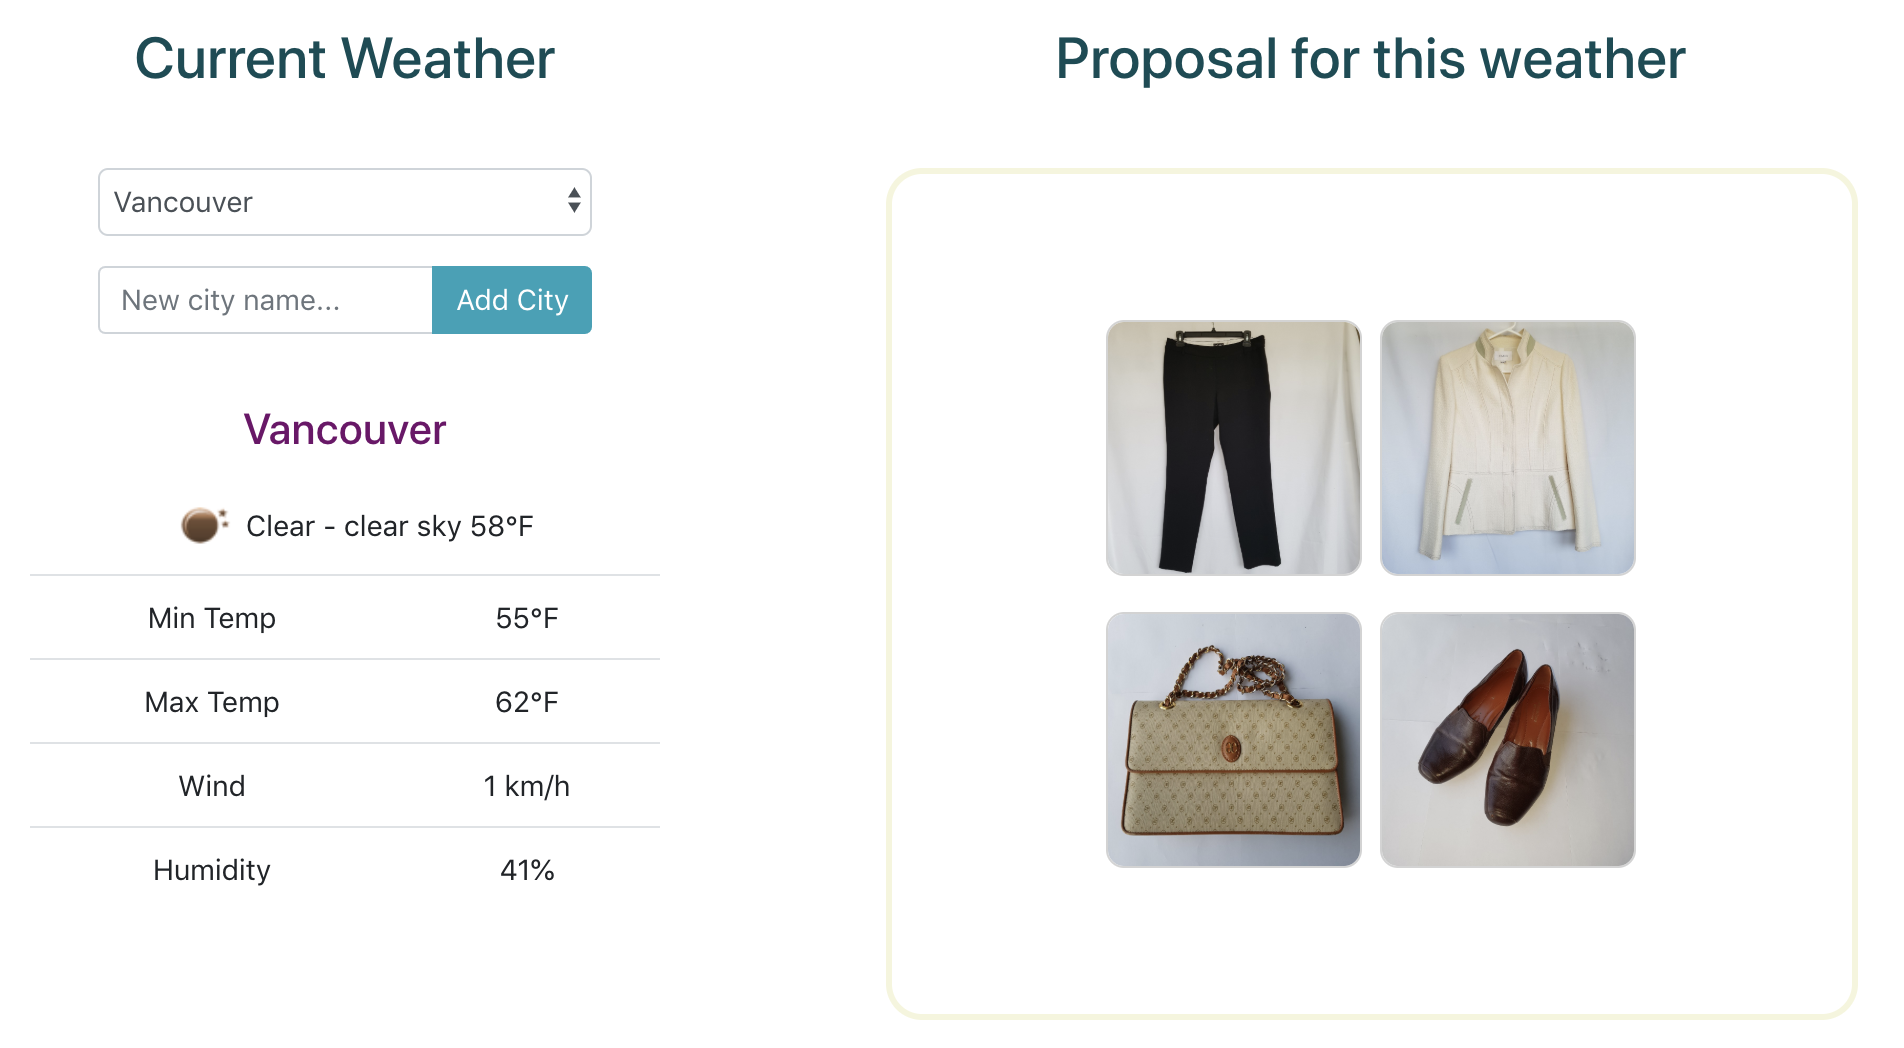
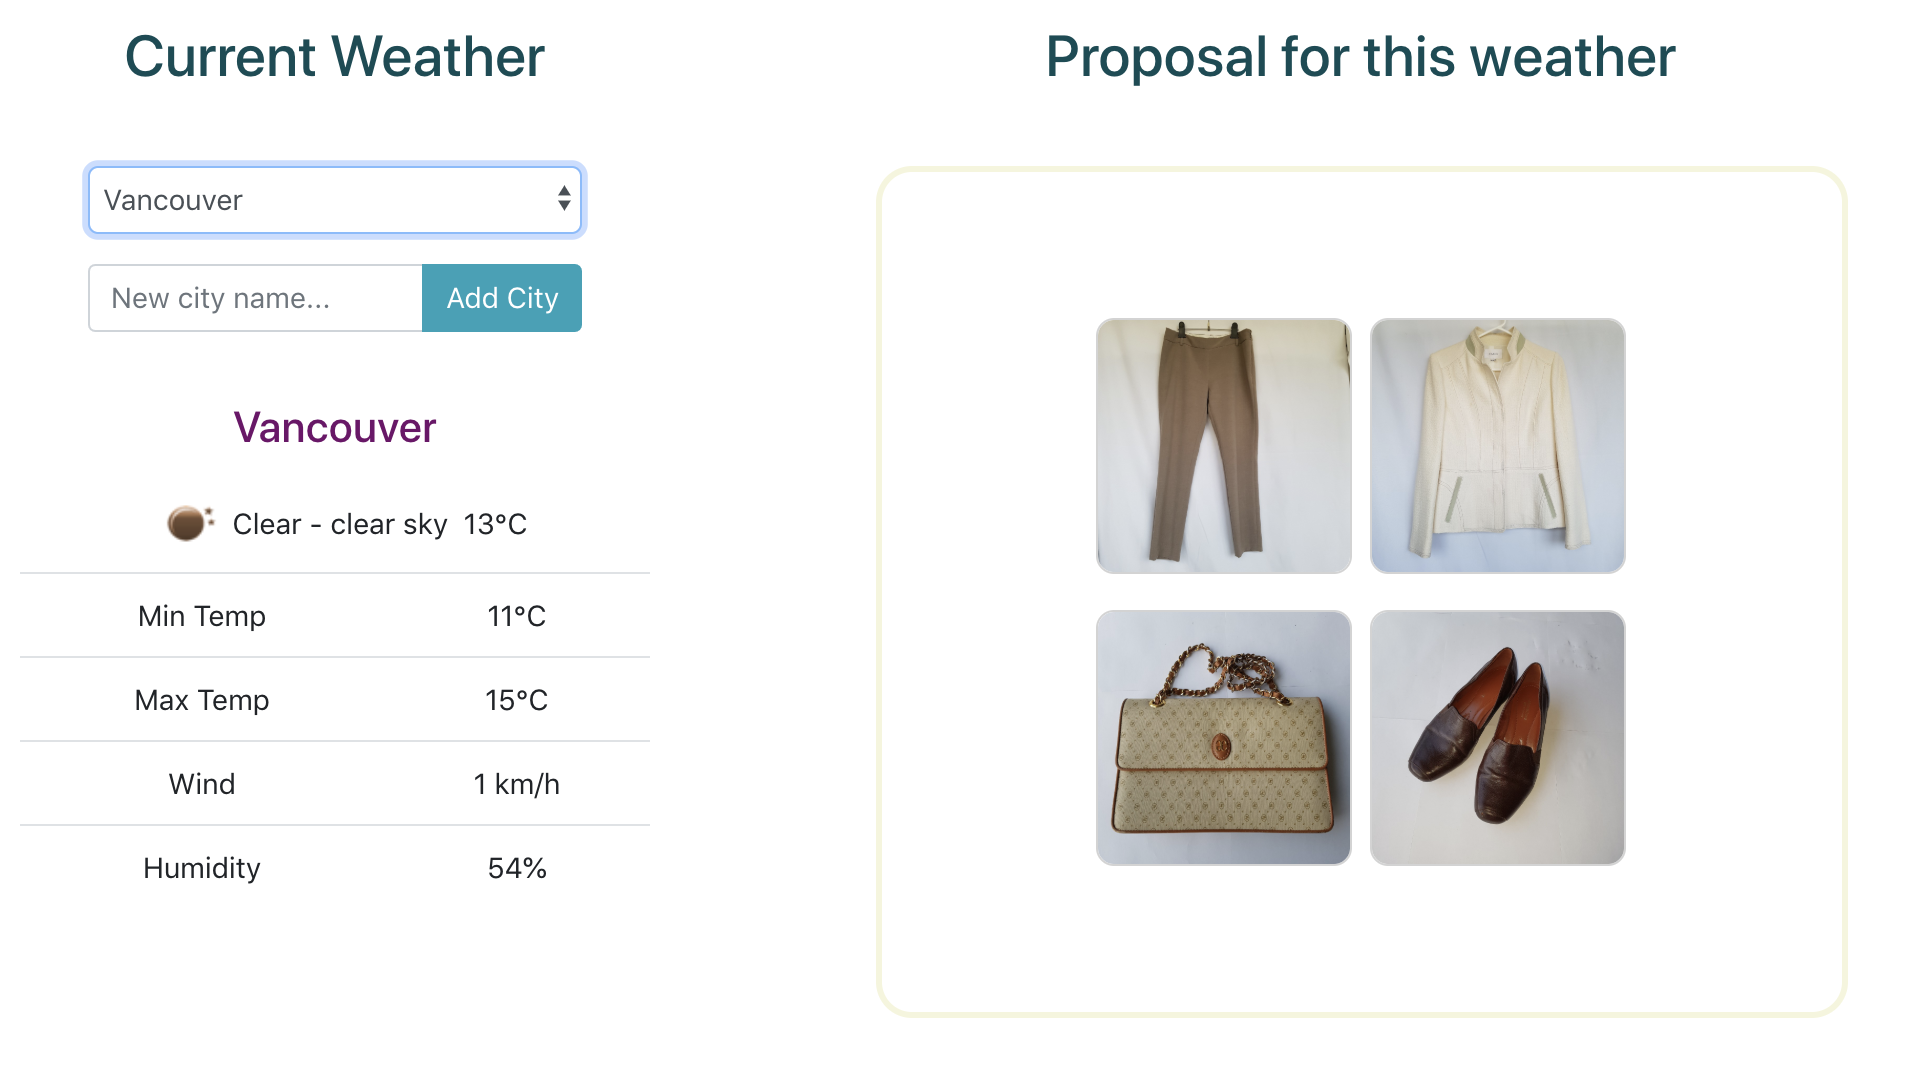
Home page contents

diff --git a/client/src/containers/Home/Home.js b/client/src/containers/Home/Home.js
@@ -1,15 +1,91 @@
 import React from 'react'
 import weatherShot from '../../asset/image/weatherShot.png';
+import closetSelectedShot from '../../asset/image/closetSelectedShot.png';
+import closetShot from '../../asset/image/closetShot.png';
+import closetModalShot from '../../asset/image/closetModalShot.png';
+import deleteModalShot from '../../asset/image/deleteModalShot.png';
+import deleteShot from '../../asset/image/deleteShot.png';
+import itemInfoShot from '../../asset/image/itemInfoShot.png';
+import itemFileShot from '../../asset/image/itemFileShot.png';
+import outfitShot from '../../asset/image/outfitShot.png';
+import addItemShot from '../../asset/image/addItemShot.png';
 import './Home.css';
+import { FontAwesomeIcon } from '@fortawesome/react-fontawesome'
+import { faSignOutAlt} from '@fortawesome/free-solid-svg-icons'
+import { faSignInAlt} from '@fortawesome/free-solid-svg-icons'
+import { faPlus} from '@fortawesome/free-solid-svg-icons'
+import { faMinus} from '@fortawesome/free-solid-svg-icons'
+import { faTrashAlt } from '@fortawesome/free-solid-svg-icons'
 
 const home =() => {
     return (
             <div>
                 <h3 className="titleHome"> Plan Your Outfit</h3>
-                <h5 className="title">Start with finding weather.</h5>
-                <img className="weatherShot"
-                    src={weatherShot} 
-                    alt=""  />
+                <div className="titlePage">
+                        First, make an account with <FontAwesomeIcon icon={faSignInAlt}/> {" "} icon in the menu bar.
+                </div>
+
+                <div>
+                    <div className="titlePage">
+                        <p>Start with finding weather of the city and get the proposal for the weather. </p>
+                    </div>
+                    <img className="weatherShot"
+                        src={weatherShot} 
+                        alt=""  />
+                    <div className="titlePage">
+                        <p>Then, the menu bar shows available links.</p>
+                    </div>
+                </div>
+                <div>
+                    <div className="titlePage">
+                        If there is no items and no outfits saved, then add items with image files for the items stored in your computer. 
+                    </div>
+                    <img className="weatherShot"
+                        src={addItemShot} 
+                        alt=""  />
+                    <div className="titlePage">
+                        Click <strong>choose file </strong> button to find file for an item.
+                    </div>                   
+                    <img className="weatherShot"
+                        src={itemFileShot} 
+                        alt=""  />
+                </div>
+                <div>
+                    <div className="titlePage">
+                        After open a file for an item, then add infomation for the item and click submit button.
+                    </div>
+                    <img className="weatherShot"
+                        src={itemInfoShot} 
+                        alt=""  />
+                </div>
+                <div>
+                    <div className="titlePage">
+                        <p>To open your closet, click <strong>closet</strong> link in the menu bar.</p>
+                        <p>Click items to select for an outfit. </p>
+                        <p>If you want to put items back to the closet, click again each item of selected items.</p>
+                    </div>
+                    <img className="weatherShot"
+                        src={closetSelectedShot} 
+                        alt=""  />
+                </div>
+                <div>
+                    <div className="titlePage">
+                        <p> After selecting items for an outfit, click magnifier to see items bigger. If it's ok, then save it.</p>
+                    </div>
+                    <img className="weatherShot"
+                        src={closetModalShot} 
+                        alt=""  />
+                </div>
+                <div>
+                    <div className="titlePage">
+                        <p> To check all the outfits saved, click outfit in the menu bar.</p>
+                        <p> If you want to delete some outfits, click <FontAwesomeIcon icon={faTrashAlt} size="1x" color="darkGreen"  /> icon for each outfit. </p>
+                    </div>
+                    <img className="weatherShot"
+                        src={outfitShot} 
+                        alt=""  />
+                </div>
+               
             </div>
     );
 }

diff --git a/client/src/containers/Home/Home.css b/client/src/containers/Home/Home.css
@@ -1,10 +1,18 @@
 .weatherShot {
     width: 50vw;
     height: auto;
+    margin-left: 10vw;
 }
 .titleHome{
     color: rgb(101, 13, 128);
     font-size: 3rem  ;
     padding-top: 4vh;
     padding-bottom: 4vh;
+}
+.titlePage{
+    font-size: 1.5rem  ;
+    padding-top: 6vh;
+    padding-bottom: 6vh;
+    text-align: left;
+    margin-left: 20vw;
 }

diff --git a/client/src/containers/Start/Start.js b/client/src/containers/Start/Start.js
@@ -37,7 +37,7 @@ class Start extends Component {
         this.setState({newCityName: e.target.value});
       }
       toCelcius = (farenheit) =>{
-        return (farenheit-32) *5/9;
+        return Math.floor((farenheit-32) *5/9);
       }
       getWeather = async (cityName) => {
         const response = await axios(`/api/weather/${cityName}`)
